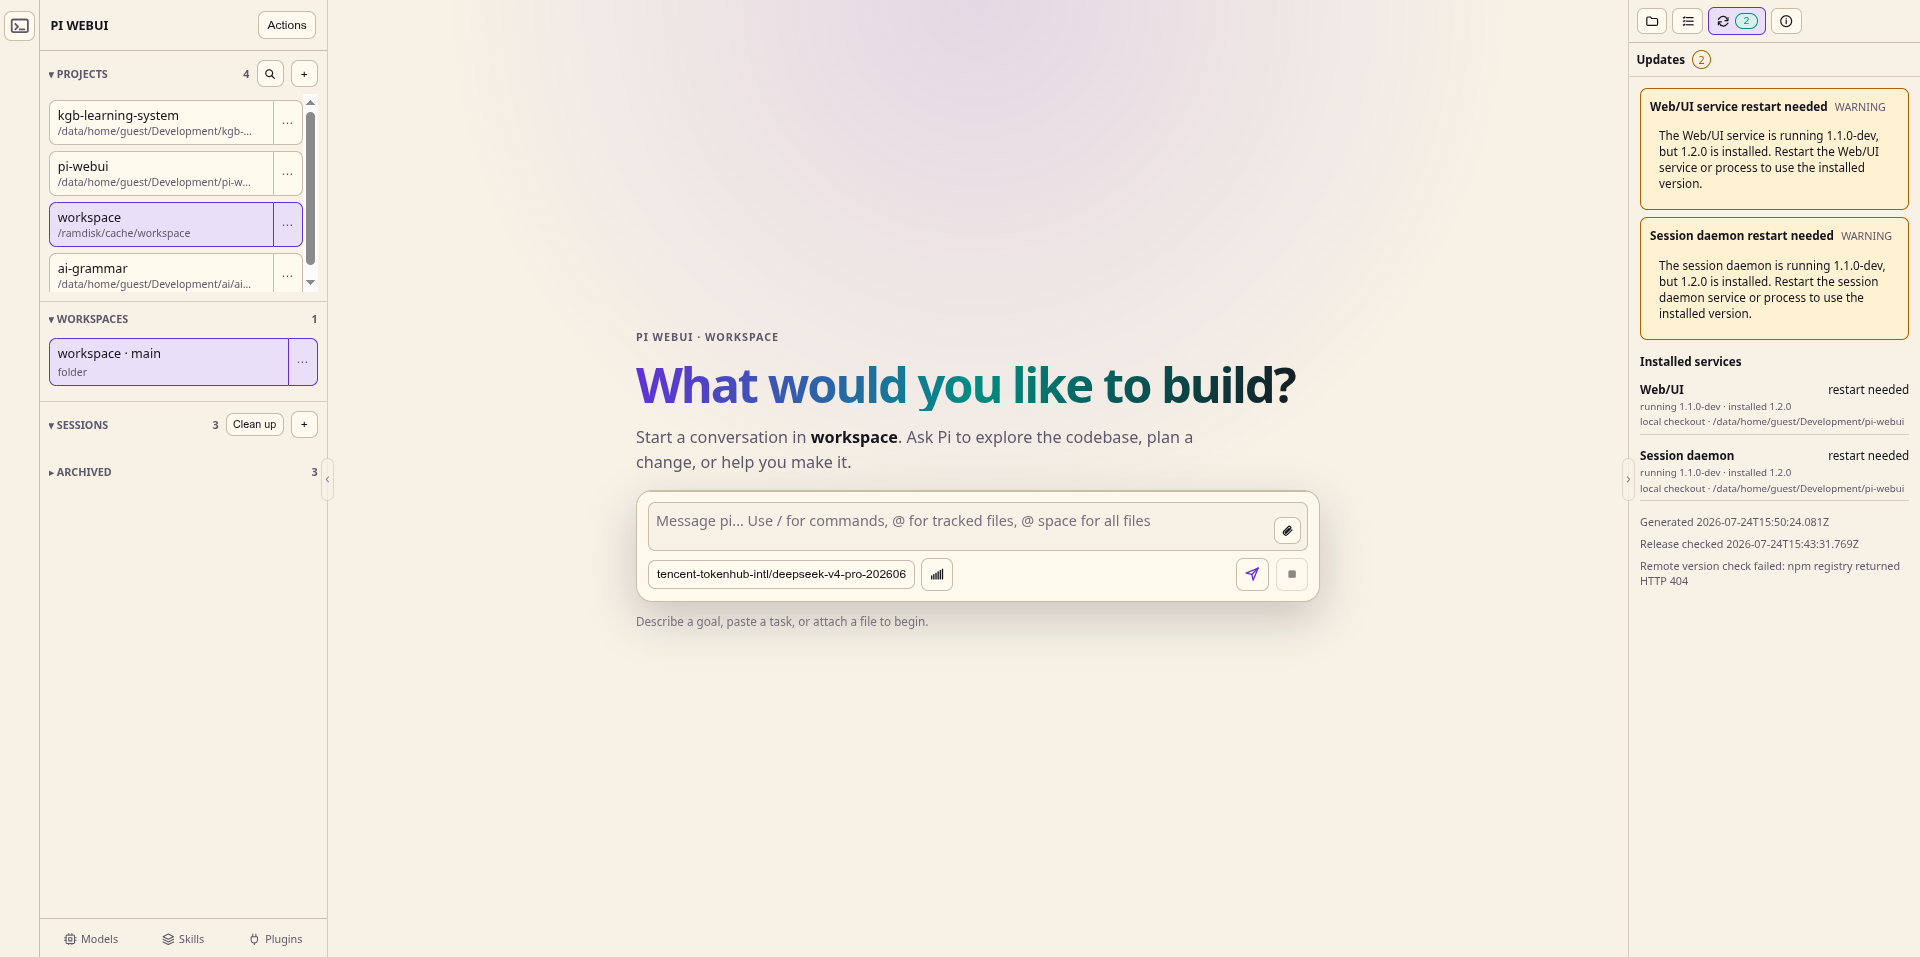
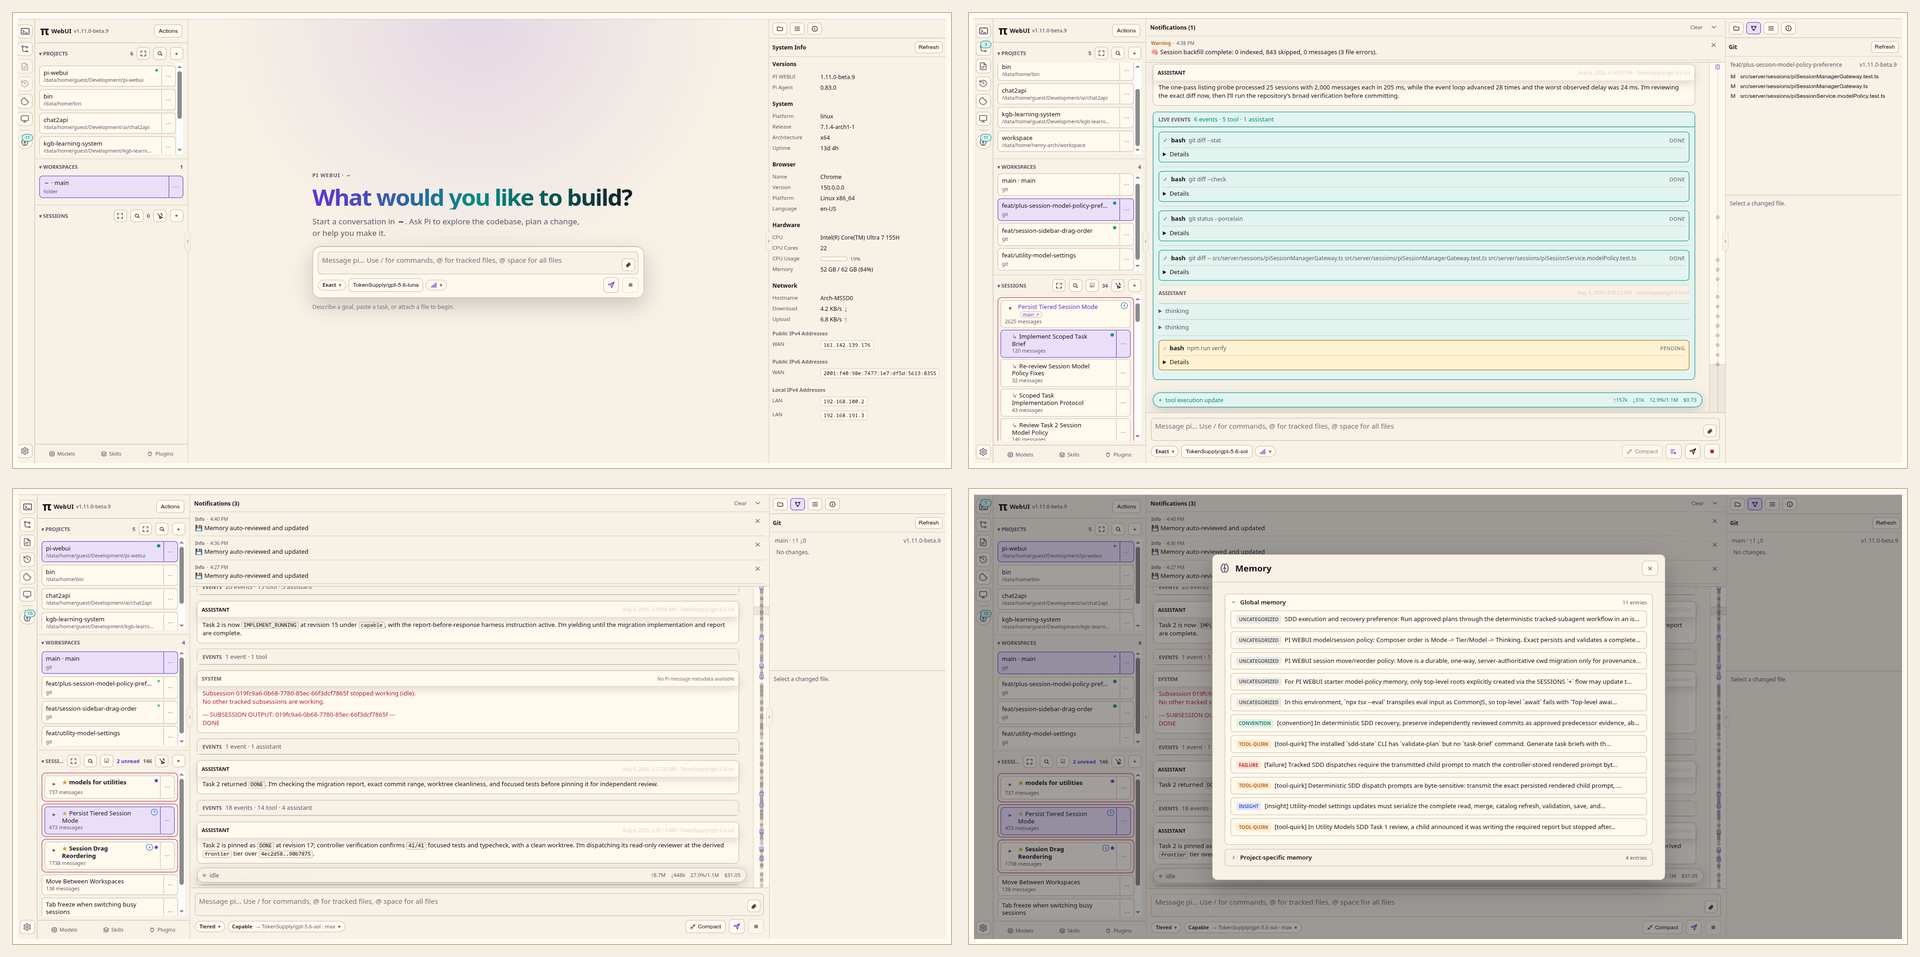
docs: refresh desktop screenshot collage

diff --git a/docs/index.html b/docs/index.html
@@ -169,11 +169,11 @@
                   <button class="demo-lightbox-trigger" type="button" data-demo-lightbox-trigger aria-label="Open desktop screenshot preview">
                     <img
                       src="assets/pi-webui-desktop.png"
-                      alt="PI WEBUI desktop screenshot showing an agent-created pi-webui.dev screenshot selected in the file preview"
+                      alt="PI WEBUI desktop collage showing workspace projects, live session activity, system information, and memory"
                     />
                   </button>
                 </div>
-                <figcaption><strong>Desktop</strong><span>Chat beside workspace file preview.</span></figcaption>
+                <figcaption><strong>Desktop</strong><span>Workspace home, live session activity, system info, and memory.</span></figcaption>
               </figure>
               <figure class="demo-shot" data-demo-slide>
                 <div class="demo-shot-media">

diff --git a/README.md b/README.md
@@ -11,7 +11,7 @@ Run agents where your code, tools, credentials, and build caches live. Supervise
 
 ![PI WEBUI](docs/assets/pi-webui-banner.png)
 
-![PI WEBUI desktop screenshot](docs/assets/pi-webui-desktop.png)
+![PI WEBUI desktop collage showing workspace projects, live session activity, system information, and memory](docs/assets/pi-webui-desktop.png)
 
 ## Why PI WEBUI?
 

diff --git a/.changeset/desktop-collage.md b/.changeset/desktop-collage.md
@@ -1,0 +1,5 @@
+---
+"@hyperdreamer/pi-webui": patch
+---
+
+Refresh the desktop documentation screenshot with a four-state PI WEBUI collage.
